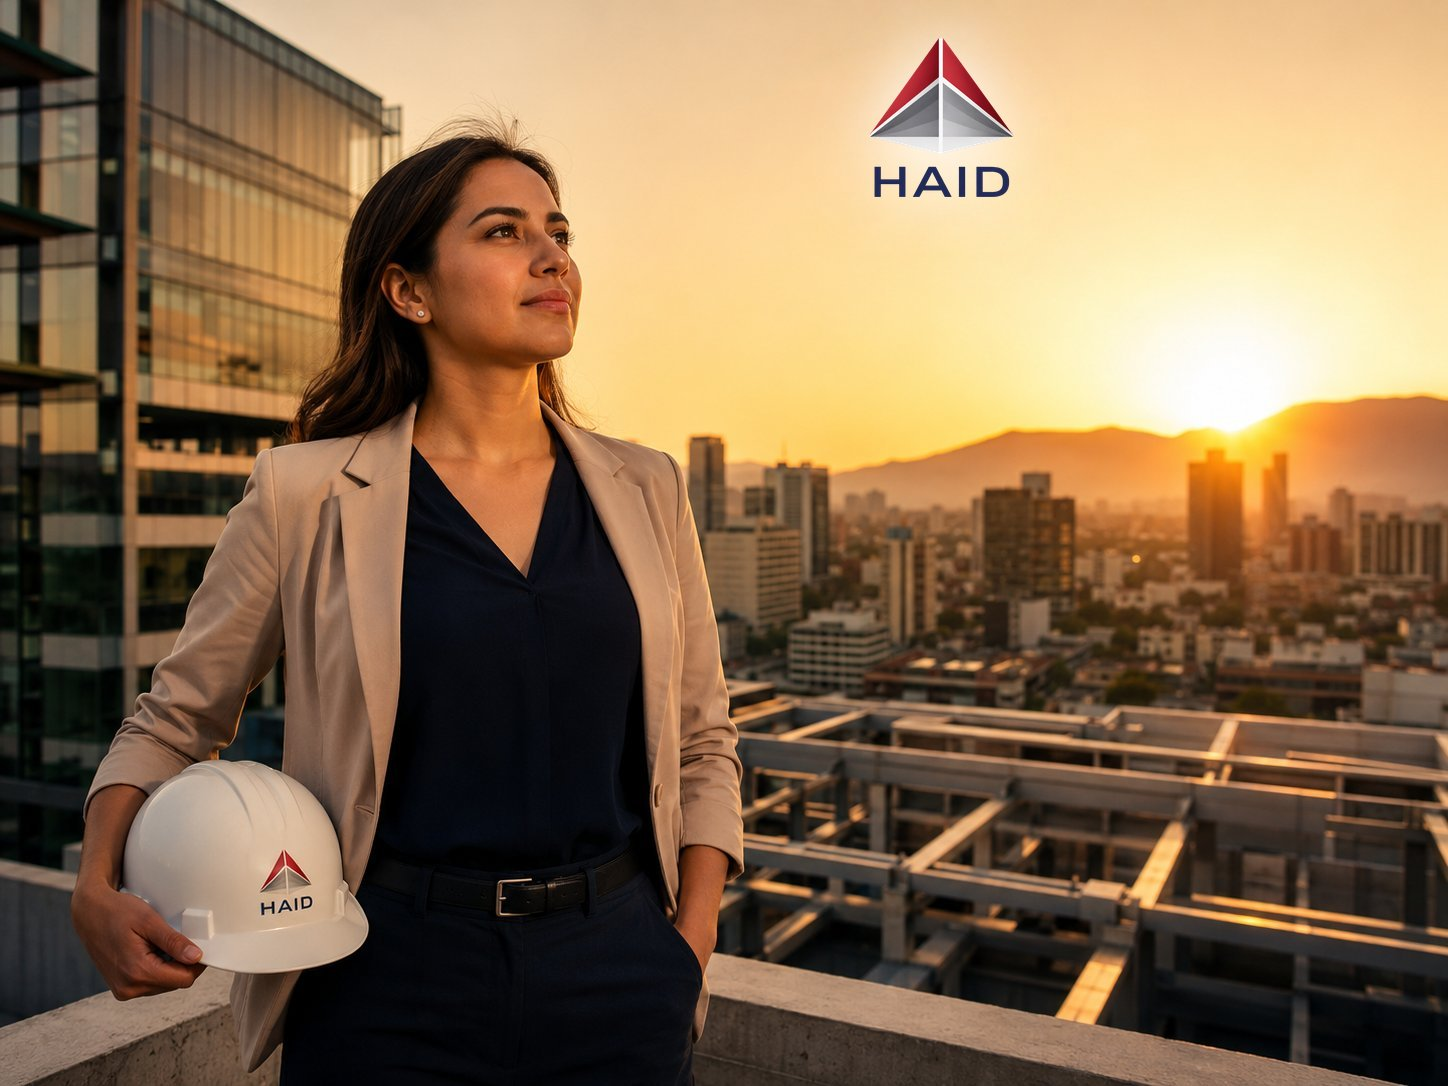
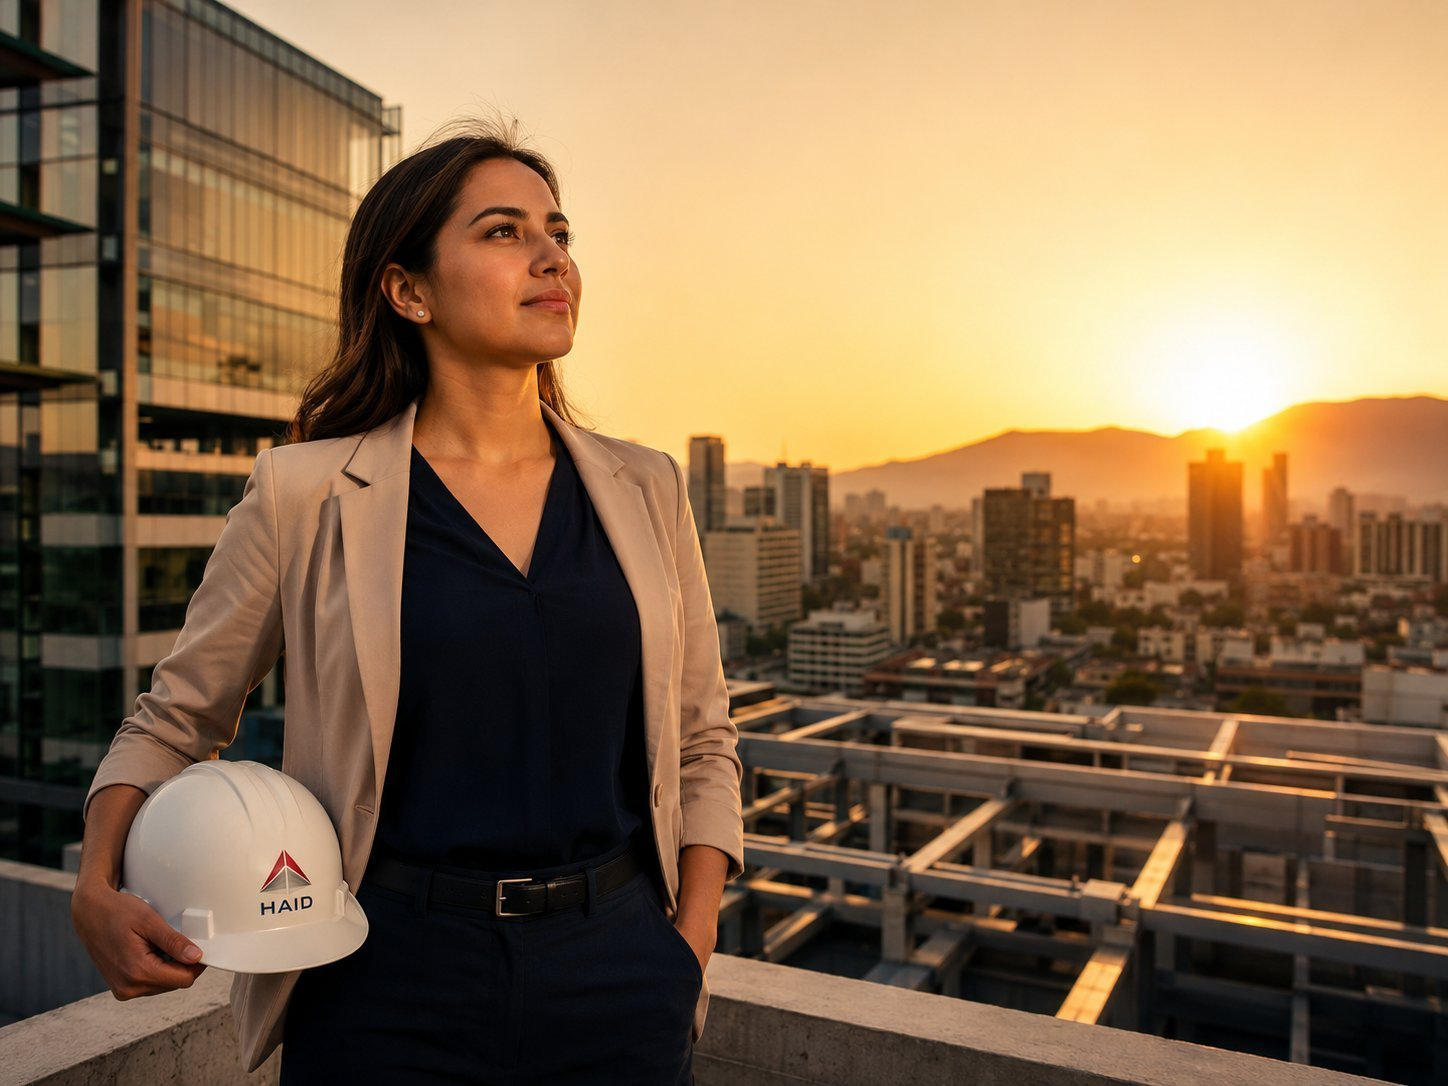
Quitar la marca de agua de las fotos de Nosotros y Desarrolladores
Por decisión de HAID, Desarrolladores, Dirección General y las dos
fotos de equipo vuelven a las imágenes originales sin logo (las dos
primeras siguen en JPG y conservan los metadatos de copyright).

Las fotos de equipo recuperan su encuadre original: el ajuste hacia la
esquina del logo las había sacado de cuadro. En Equipo en Campo el
encuadre sube un poco para no cortar la cabeza.

Claude-Session: https://claude.ai/code/session_01PTqhE5hS8kXzdY96w4DNw3

Changed region(s): [[0.5905, 0.0304, 0.7148, 0.2127]]

diff --git a/index.html b/index.html
@@ -310,7 +310,7 @@ section{width:100%;}
 .dir-stat-l{font-size:0.7rem;color:rgba(255,255,255,0.6);text-transform:uppercase;letter-spacing:1px;margin-top:0.1rem;}
 .equipo-strip{display:grid;grid-template-columns:1fr 1fr;gap:1rem;margin-top:1rem;}
 .equipo-card{position:relative;overflow:hidden;}
-.equipo-card img{width:100%;height:200px;object-fit:cover;object-position:right top;}
+.equipo-card img{width:100%;height:200px;object-fit:cover;}
 .equipo-cap{position:absolute;bottom:0;left:0;right:0;background:linear-gradient(transparent,rgba(20,19,53,0.85));padding:1rem;}
 .equipo-cap p{font-size:0.8rem;color:#fff;font-weight:600;}
 .equipo-cap span{font-size:0.72rem;color:rgba(255,255,255,0.7);}
@@ -1038,7 +1038,7 @@ footer{background:#1e2d4a;border-top:3px solid var(--red);}
             </div>
           </div>
           <div class="equipo-card">
-            <img src="assets/img/equipo-campo.jpg" alt="Ingeniero HAID con estación total en obra" loading="lazy">
+            <img src="assets/img/equipo-campo.jpg" style="object-position:center 22%;" alt="Ingeniero HAID con estación total en obra" loading="lazy">
             <div class="equipo-cap">
               <p>Equipo en Campo</p>
               <span>Control Técnico</span>
